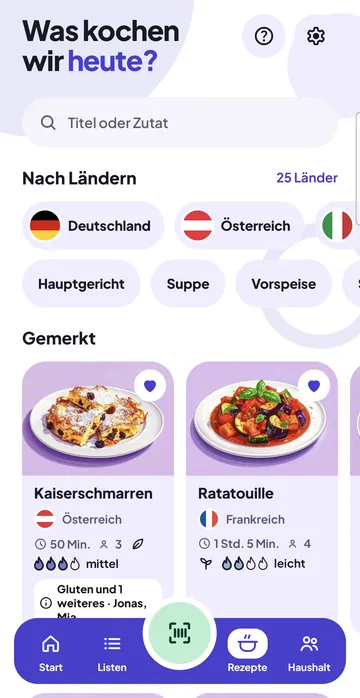
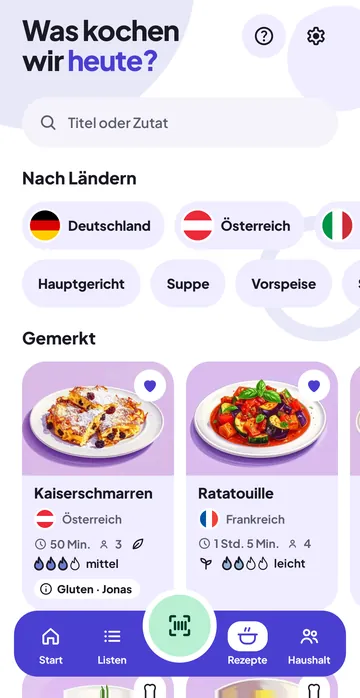
So geht's zu 0.20.0: drei Bilder der Rezepte-Seite ohne Zahlen neu, Satz zu „Zurück zur Liste“ beim Scannen für eine Liste, Haken der Tastatur schließt sie, Querformat mit Hinweis auf Android; Prüfung im Bau kennt den neuen Satz

diff --git a/docs/berichte/AP-88_Zwischenstand.md b/docs/berichte/AP-88_Zwischenstand.md
@@ -77,3 +77,68 @@ Rezeptdateien der App sind von 0.19.0 zu 0.20.0 unverändert. **`src/daten/app_f
   Ausnahme: genau ein Befund „/favicon.svg … #B8F0D2“. Unter „Offene Entscheidungen“, weil Alis Regel „kein Grün,
   nirgends“ bisher nur das Abzeichen ausnahm.
 - Bau und `npm run pruefen`: bestanden.
+
+## Etappe 3: So geht's und Texte (04.11.2026, 10:45)
+
+### 3.1 Bilder
+
+Testfassung 0.20.0 (2000) aus dem worktree `144a147` (`assembleVollDebug`, Lauf über das Lauf-Skript mit Belegt-Zettel;
+`local.properties` der App als Verweis im worktree, nicht geöffnet) am eigenen Emulator `einkauf_api35`, für die
+Aufnahmen auf die Werte des S24 gestellt (1080 x 2340, 480 dpi, Tasten) wie bei AP-54, danach zurückgestellt.
+Haushalt per Import: Mia Schalenfrüchte „Auf keinen Fall“, Jonas Gluten „Meiden“, Elif vegetarisch „Meiden“ (je ein
+Eintrag, ohne Schweinefleisch). Verarbeitet mit `So_gehts_Bilder/werkzeug/ap88_verarbeiten.py` (aus
+`ap54_verarbeiten.py`), dann `tools/sogehts_fotos.py`. Alte Fassungen in `So_gehts_Bilder/bis_2026-11-04_ap88/` und
+`bilder_bis_2026-11-04_ap88.json`.
+
+| Bild | vorher | jetzt |
+|---|---|---|
+| `rezepte_ansehen_01` (auch Startseite) | „25 Länder“, „273 Rezepte“ | ohne Zahlen, sonst gleicher Ausschnitt |
+| `rezepte_filter_01` | „25 Länder“, „37 Rezepte“; Bildtext „… gewählt: 37 Rezepte; …“ | ohne Zahlen; Bildtext ohne „37 Rezepte“ |
+| `rezepte_merken_02` | „25 Länder“ | ohne Zahl; „Gemerkt“: Kaiserschmarren, Ratatouille, Anfang von Apfelstrudel |
+| `start_schnellzugriff_01` | altes Symbol (Wagen) | **nicht getauscht**, siehe unten |
+
+`sogehts_fotos.py` hat dabei auch `scanner_ean_03` und `scanner_scannen_01` neu kodiert (Kamerabilder aus AP-32,
+gleiche Quelle); beide sofort auf den Stand von `main` zurückgesetzt, sie ändern sich nicht.
+
+**`start_schnellzugriff_01` nicht getauscht:** Das alte Bild stammt vom S24 (Samsung). Am Emulator zeigt der
+Pixel-Launcher ein anderes Menü (App-Info, App pausieren) und die langen Namen der Schnellzugriffe, „Produkt scannen“
+und „Einkaufsliste öffnen“; die Website schreibt „Scannen“ oder „Liste“ (die kurzen Namen, so am S24). Ein Tausch
+hätte Bild und Text auseinandergebracht. Kandidat für die Vorschau: Store-Datei 2000 (`Material/FoodAsu-0.20.0-2000.aab`,
+universelle APK, Debug-Schlüssel) am Emulator, nicht geöffnet, Systemsprache für die Aufnahme kurz Deutsch.
+Unter „Offene Entscheidungen“.
+
+Filme: keiner zeigt die Rezepte-Seite oder die Kommt-bald-Karte; nichts zu melden.
+
+Emulator danach: Store-Kopie deinstalliert, Systemsprache, Größe, Dichte und Gestennavigation zurück (vorher war
+`persist.sys.locale` leer, jetzt `en-US`, gleiche Sprache), Emulator beendet, Belegt-Zettel leer. In der Testfassung am
+Emulator bleibt der Beispielhaushalt mit drei gemerkten Rezepten (vorher Mia mit Milch).
+
+### 3.2 bis 3.4 Texte
+
+- „In die Liste scannen“ (`einkaufslisten.mjs`, Anker `in-die-liste-scannen`), neuer Satz: „Nach dem Scannen bringt
+  dich „Zurück zur Liste“ auf der Produktkarte direkt wieder zu dieser Liste.“ Abweichung vom Vorschlag: „auf der
+  Produktkarte“, weil der Knopf in der Leiste der Karte unter „Auf der Liste“ steht (`CardListBar.kt`,
+  `BackToListButton`, nur im Modus „Scannen für Liste“); Beschriftung in der App wörtlich „Zurück zur Liste“.
+- Tastatur: Die Anleitung beschrieb sie in „Einträge hinzufügen“ („Das Feld bleibt offen für den nächsten Eintrag.“).
+  Das stimmt seit 0.20.0 nicht mehr (`ListAddField.kt`: Haken meldet den Eintrag und schließt die Tastatur). Der Satz
+  wird: „Der Haken auf der Tastatur setzt den Eintrag auf die Liste und schließt die Tastatur; ein Tipp ins Feld öffnet
+  sie wieder.“ Beim Abhaken nennt die Anleitung keine Tastatur.
+- Querformat (`scannen-und-urteil.mjs`): „… neben dem Kamerabild (Android).“ Die Sperre gegen Plattform-Nennungen
+  schlug an; der Wortlaut steht jetzt in `ANLEITUNG_ANDROID` in `tools/pruefe_seiten.mjs` (technischer Hinweis, wie
+  „Backup von Android“).
+
+### 3.5 Aussagen, die nach 0.20.0 nicht mehr stimmen
+
+Gesucht in `src/daten`, `src/inhalte`, Seiten und `llms.txt` nach „Kommt bald“, „Produktpreise“, „Preise“, „Länder“,
+„Zahl der“, „Wagen“, „Symbol“, „Startbildschirm“, „Feld bleibt“, „Tastatur“, „testest“:
+- geändert: nur der Satz zur Tastatur (oben).
+- stimmt weiter: „über N Rezepte aus N Ländern“ (Zahlen der Website, nicht der App-Seite), „Wagen“ in „was im Wagen
+  liegt“ (Einkaufswagen im Laden, nicht das Symbol), „lange auf das Symbol von FoodAsu drücken“ (gilt für jedes Symbol).
+- keine Fundstelle zur Kommt-bald-Karte und zum alten Symbol im Text.
+
+### 3.6 Verfügbarkeit
+
+Sätze zur Verfügbarkeit unverändert.
+
+Bau und `npm run pruefen`: bestanden. Texte ausgegeben nach `Material/Website_Texte_SoGehts.md` und
+`Material/Website_Texte_Startseite.md`.
